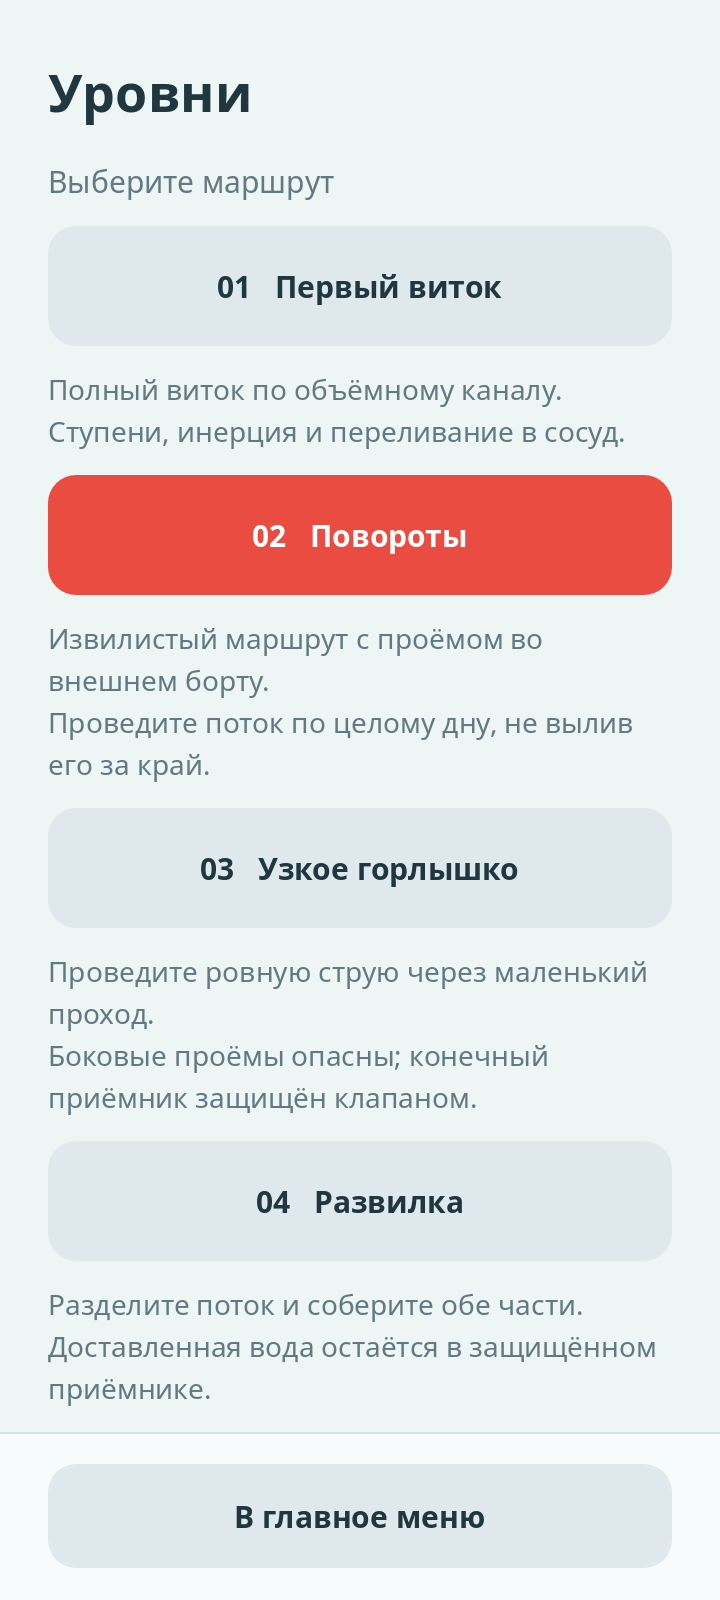
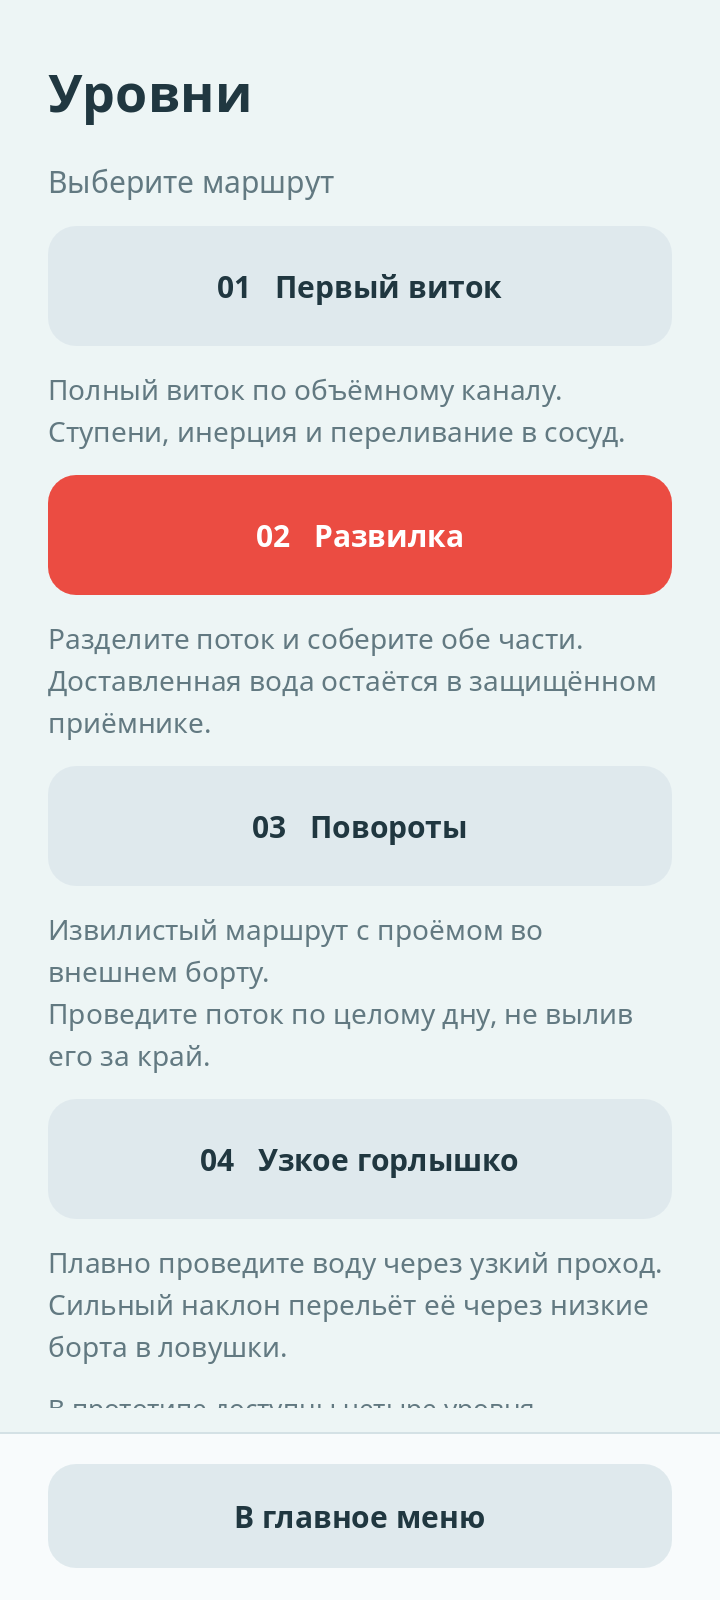
Reorder levels and replace bottleneck outlets with overflow wells
Move Fork second and preserve selected routes through stable source IDs. Add low glass banks, protected passage rails, and spill wells that punish excessive forward tilt. Clip narrow step markings to the actual landings and straighten the bottleneck descents. Author a shallow fixed pitch for rotation on the bottleneck. Validate native physics, sensor input, touch controls, all level transitions and Android packaging.

diff --git a/docs/SPECIFICATION.ru.md b/docs/SPECIFICATION.ru.md
@@ -4,7 +4,7 @@
 
 Игра для Android с управлением жидкостью через наклон мобильного устройства. Игрок меняет направление действия силы тяжести, переливает жидкость по каналам и доставляет её в заданный сосуд. Вода может делиться на потоки, проходить через узкие отверстия, разбрызгиваться, стекать по ступеням, замерзать и испаряться.
 
-**Вода — единственная жидкость десятиуровневого демонстрационного прототипа.** Финальная игра может включать жидкости с различными физическими свойствами и уровни на их смешивание, разделение и взаимодействие. Это часть продуктовой концепции, а не уже реализованная возможность версии 0.12.0.
+**Вода — единственная жидкость десятиуровневого демонстрационного прототипа.** Финальная игра может включать жидкости с различными физическими свойствами и уровни на их смешивание, разделение и взаимодействие. Это часть продуктовой концепции, а не уже реализованная возможность версии 0.12.1.
 
 ## Визуальное направление
 
@@ -18,20 +18,19 @@
 4. После удержания требуемого объёма приёмник подсвечивается; поток продолжает доливаться до 0,5 с без заметного пополнения, но не дольше 2 с. До этого окно результата скрыто. Пауза останавливает воду и задержку.
 5. Игрок может перезапустить уровень и попробовать другой маршрут или темп.
 
-Перезапуск и выход доступны в паузе; язык, чувствительность, выбор способа управления и настройка визуального наклона поля — в настройках главного меню. При сворачивании приложения симуляция останавливается. Альтернативный режим вращает сам трёхмерный уровень вокруг вертикальной оси под неподвижной ортографической камерой с более высоким ракурсом (45° по азимуту, 65° по высоте на первом уровне, 70° на втором). Внутренние участки каналов видны на всём обороте поля; стекло сохраняет видимость воды у бортов. Камера не кренится и не меняет масштаб; жест проецируется на плоскость поля. Гравитация вдоль игрового рельефа направлена вниз экрана. Ориентация сохраняется после отпускания и паузы; повтор сбрасывает её. Этот режим помогает при отсутствии датчика; клавиатура предназначена для разработки.
+Перезапуск и выход доступны в паузе; язык, чувствительность, выбор способа управления и настройка визуального наклона поля — в настройках главного меню. При сворачивании приложения симуляция останавливается. Альтернативный режим вращает сам трёхмерный уровень вокруг вертикальной оси под неподвижной ортографической камерой с более высоким ракурсом (45° по азимуту, 65° по высоте на первом уровне, 73° на втором, 70° на третьем и четвёртом). Внутренние участки каналов видны на всём обороте поля; стекло сохраняет видимость воды у бортов. Камера не кренится и не меняет масштаб; жест проецируется на плоскость поля. Гравитация вдоль игрового рельефа направлена вниз экрана. Ориентация сохраняется после отпускания и паузы; повтор сбрасывает её. Этот режим помогает при отсутствии датчика; клавиатура предназначена для разработки.
 
-## Версия 0.12.0 — четыре уровня
+## Версия 0.12.1 — четыре уровня
 
 **«Первый виток»**: трёхмерный террасный спиральный канал с полным оборотом на 360° и центральным сосудом. Маршрут: вниз, вправо, вверх, влево, снова вниз. Диагональные наклоны помогают провести растянутый поток через повороты. Порог победы — 80% частиц воды в приёмнике непрерывно в течение 0,75 с. Верхних ограничений по времени и штрафов нет. У канала четыре перепада высоты по 0,14. Вода может выплеснуться над конечными бортиками. Если остаток меньше 80% исходного объёма, открывается окно повторной попытки.
 
-**«Повороты»**: извилистый маршрут из четырёх кривых Безье с плавными стенками. Выше нижнего изгиба, на боковой стороне канала, есть проём шириной 0,18 в наружном борту. В 0.11.2 его начало сдвинуто вверх с 1,75 до 1,10, а протяжённость уменьшена с 0,65 до 0,18: спокойный поток легче провести мимо проёма, резкий наклон наружу остаётся опасным. **Дно непрерывно на всём пути**, включая место ошибочного отверстия из 0.11.0; верхний и нижний желоба соединены обычной ступенью. Игрок проводит воду вдоль канала, а не перебрасывает её через пустоту. Сильный наклон наружу выливает воду через боковой проём, плавное управление помогает удержать поток. Край пола и оба вертикальных торца проёма отмечены чёрно-жёлтыми полосами; стрелок, предлагающих вылить туда воду, нет. Цель — те же 80% / 0,75 с.
-
-**«Узкое горлышко»**: ровная струя проходит через отверстие 0,48 × 0,22 под физической перемычкой в перегородке. Перед проходом расположена камера подачи с двумя боковыми сливами наружу: неверное диагональное управление может вылить воду. Дно непрерывно; конечный приёмник защищён обратным клапаном.
-
 **«Развилка»**: общий источник делит воду между короткой и длинной ветвями. Короткая доставляет первую порцию раньше; длинная имеет возвратный участок и требует смены направления. Ветви сходятся перед общим приёмником. Собранная вода остаётся в защищённом сосуде, пока игрок работает с оставшейся частью.
 
+**«Повороты»**: извилистый маршрут из четырёх кривых Безье с плавными стенками. Выше нижнего изгиба, на боковой стороне канала, есть проём шириной 0,18 в наружном борту. В 0.11.2 его начало сдвинуто вверх с 1,75 до 1,10, а протяжённость уменьшена с 0,65 до 0,18: спокойный поток легче провести мимо проёма, резкий наклон наружу остаётся опасным. **Дно непрерывно на всём пути**, включая место ошибочного отверстия из 0.11.0; верхний и нижний желоба соединены обычной ступенью. Игрок проводит воду вдоль канала, а не перебрасывает её через пустоту. Сильный наклон наружу выливает воду через боковой проём, плавное управление помогает удержать поток. Край пола и оба вертикальных торца проёма отмечены чёрно-жёлтыми полосами; стрелок, предлагающих вылить туда воду, нет. Цель — те же 80% / 0,75 с.
 
-Все четыре уровня доступны напрямую в выборе. Меню показывает выбранный номер и название, выбор сохраняется. После победы на первом уровне кнопка «Следующий уровень» начинает второй с закрытым источником и свежим объёмом воды. После второго и третьего также доступен переход дальше; после четвёртого — повтор и главное меню.
+**«Узкое горлышко»**: ровная струя проходит через отверстие 0,48 × 0,22 под физической перемычкой. По обе стороны прохода стоят низкие стеклянные борта: верх 0,70 при отметке дна 0,42. За ними находятся две ловушки без дна; перелившийся объём исчезает и учитывается как потерянный. Боковые выходы из прежней версии закрыты. Узкий канал имеет целое дно и высокие боковые стенки между ловушками. Сильный наклон вперёд накапливает воду выше низких бортов и приводит к потерям; слабый наклон позволяет спокойно пройти. В режиме вращения задан фиксированный пологий наклон 0,2 от полного ввода, поскольку этот режим не позволяет игроку менять его силу. Конечный приёмник защищён обратным клапаном. После отверстия криволинейный канал лежит на одной отметке; перепады перед приёмником прямые.
+
+Все четыре уровня доступны напрямую в выборе. Меню показывает выбранный номер и название, выбор сохраняется по постоянному идентификатору источника; старые индексы мигрируют с сохранением маршрута. Порядок: «Первый виток», «Развилка», «Повороты», «Узкое горлышко». После победы на первом уровне кнопка «Следующий уровень» начинает второй с закрытым источником и свежим объёмом воды. После второго и третьего также доступен переход дальше; после четвёртого — повтор и главное меню.
 
 Входит в реализацию:
 
@@ -44,21 +43,21 @@
 - Подготовка с закрытым резервуаром, вылет и вращение крышки выпускного отверстия по нажатию с открытием физического прохода, игра, пауза, победа и повтор. Перезапуск снова закрывает резервуар.
 - Настройки в стиле Material: отдельные карточки языка, управления, чувствительности и обратной связи, крупные зоны касания, переключатели, сегментный выбор управления, ползунок с числом и сенсорная прокрутка без видимой полосы. Возврат в меню закреплён внизу.
 - Собственные мягкие звуки нажатий (тише событий уровня на 6 дБ), открытия, победы и потери; общий выключатель звука и сохранение настроек.
-- Высокий диагональный ракурс, нейтральные полированные кромки бортов, непрерывная жёлто-чёрная разметка верхнего края, вертикальной грани и нижней площадки ступеней с обратным направлением штриховки после перепада и стрелками спуска и градация цвета дна по высоте. Только открытые грани геометрии; динамические проекционные тени отключены у освещения, стекла, крышки и креплений. Плоскость под уровнем удалена; объём поддерживают постоянный свет и материалы. Направленный свет, поглощение воды по глубине и мягкое контактное затемнение примыканий сохраняют объём без тени под полем.
+- Высокий диагональный ракурс, нейтральные полированные кромки бортов, узкая жёлто-чёрная разметка верхнего края, начала вертикальной грани и нижней площадки ступеней, обрезанная по реальным границам каждого этажа с обратным направлением штриховки после перепада и стрелками спуска и градация цвета дна по высоте. Только открытые грани геометрии; динамические проекционные тени отключены у освещения, стекла, крышки и креплений. Плоскость под уровнем удалена; объём поддерживают постоянный свет и материалы. Направленный свет, поглощение воды по глубине и мягкое контактное затемнение примыканий сохраняют объём без тени под полем.
 - Тестовый APK для Android API 24+, ARM64 / x86_64, без сетевых разрешений.
 
 Геометрия уровня хранится в ресурсе независимо от физики; параметры жидкости — в отдельном `LiquidProfile`. Такая организация позволяет менять свойства, но **не реализует автоматически** совместную физику нескольких материалов. Перед смешиванием / разделением понадобится определить пары взаимодействия, сохранение массы компонентов, растворимость, плотность массы и правила фазовых переходов.
 
-Текущая геометрия — трёхмерный рельеф с вертикальными стенками и ступенями, без нависающих тоннелей. Частицы свободно перемещаются по всем трём осям, падают и могут перелетать бортики. Для льда и пара потребуются отдельные состояния и правила переноса массы; нескольких материалов пока нет.
+Текущая геометрия — трёхмерный рельеф с вертикальными стенками, ступенями и физической перемычкой над горлышком. Частицы свободно перемещаются по всем трём осям, падают и могут перелетать бортики. Для льда и пара потребуются отдельные состояния и правила переноса массы; нескольких материалов пока нет.
 
 ## План демонстрационных уровней
 
 | № | Название | Основная механика | Статус |
 | --- | --- | --- | --- |
 | 1 | Первый виток | Полный виток по спирали, диагональные наклоны, переливание | Реализован в 0.10 |
-| 2 | Повороты | Плавные S-образные изгибы, плавное управление и проём в наружном борту | Уточнён в 0.11.2 |
-| 3 | Узкое горлышко | Низкий проход, ровная подача, опасные боковые сливы | Реализован в 0.12 |
-| 4 | Развилка | Две ветви, обратные движения и безопасный сбор порциями | Реализован в 0.12 |
+| 2 | Развилка | Две ветви, обратные движения и безопасный сбор порциями | Перенесён в 0.12.1 |
+| 3 | Повороты | Плавные S-образные изгибы, плавное управление и проём в наружном борту | Перенесён в 0.12.1 |
+| 4 | Узкое горлышко | Низкий проход, ровная подача, переливные борта и ловушки за ними | Переделан в 0.12.1 |
 | 5 | Ступени | Перепады высоты и перетекание | Запланирован |
 | 6 | Резкий удар | Брызги, инерция и потери при столкновении | Запланирован |
 | 7 | Горячая зона | Испарение уменьшает запас воды | Запланирован |
@@ -85,7 +84,7 @@
 
 Три варианта материалов проверены на одной замороженной физической сцене. Выбран тёплый светлый пол с высотной градацией, нейтральное стекло и более насыщенная синяя вода. Направленный свет и поглощение по глубине возвращают объём воды. Мягкое контактное затемнение привязано к основаниям стен; оно не создаёт движущуюся тень под уровнем. Полированные кромки плавных стен собраны в единую сетку. [Результаты сравнения и воспроизведение](VISUAL_STUDY.ru.md).
 
-## Вода и безопасные приёмники в версии 0.12.0
+## Вода и безопасные приёмники в версии 0.12.1
 
 На всех уровнях стартовый объём составляет 6144 маркера при прежнем размере маркера: на 25% меньше воды. Для тонких струй добавлена локальная парная капиллярная поддержка конечного радиуса, которая сохраняет суммарный импульс. Вязкость и исходный коэффициент поверхностного натяжения воды сохранены.
 

diff --git a/docs/VALIDATION.md b/docs/VALIDATION.md
@@ -1,6 +1,20 @@
 # Проверки прототипа
 
-## Версия 0.12.0 — горлышко, развилка и удержание воды
+## Версия 0.12.1 — порядок сложности и перелив у горлышка
+
+- **195 проверок физики и логики и 95 проверок OpenGL, интерфейса и касаний — 290 проверок, 0 ошибок.** После смены индексов сценарий датчика дополнительно повторён именно на «Поворотах», выбираемых по ресурсу, а не по прежнему номеру.
+- Порядок в меню и после победы: **«Первый виток» → «Развилка» → «Повороты» → «Узкое горлышко»**. Выбор сохраняется по постоянному идентификатору источника. Для всех четырёх прежних индексов проверяется миграция с сохранением того же маршрута; новый запуск восстанавливает выбор по идентификатору.
+- У **«Узкого горлышка»** удалены оба наружных боковых слива. С обеих сторон отверстия **0,48 × 0,22** стоят низкие стеклянные борта: **0,28 над дном** (верх 0,70, дно 0,42). За ними находятся две ловушки шириной **1,04** и длиной **0,94**. Между ловушками сам проход сохраняет целое дно и высокие удерживающие стенки толщиной 0,12; спокойная струя не должна падать с его боков. Тёмные шахты и жёлто-чёрные кромки показывают опасную область. [Исправленный уровень](bottleneck-low-banks.png).
+- Сильный ввод **строго вперёд**, без наклона вбок, переливает больше **20% исходной воды** через низкие борта в ловушки и делает попытку непроходимой. Спокойный ввод 0,2 проходит с потерями **меньше 1%**. В обоих случаях проверяется баланс доставленного, оставшегося и потерянного; перелив учитывается как потеря в ловушках, утечек сквозь целую геометрию нет. Отдельные капли ниже каждого борта удерживаются, выше борта — переливаются и исчезают в шахте.
+- Через игровые касания резервуара и контроллер вращения все четыре уровня завершаются победой. На «Поворотах» датчик, фильтр и игровой цикл доставили **90,951%**, потеряно 70 маркеров. На горлышке доставлено **89,388%**, потеряно **30 из 6144 маркеров (0,488%)**; весь потерянный объём попал в ловушки, утечек сквозь рельеф нет. Пауза, задержка результата, повтор и переходы сохраняют прежние правила.
+- Режим **«Вращение»** управляет направлением постоянной силы, а не её величиной. Для горлышка задан пологий физический наклон **0,2** от полного ввода (около 7° в модели); этот режим проверяется через реальный игровой контроллер с тем же значением. На остальных маршрутах сила вращения сохранена. В режиме **«Наклон»** полный диапазон остался прежним: сильный наклон действительно опасен. Это авторская настройка уровня, а не ослабление силы только в тесте.
+- После горлышка убраны криволинейные границы между этажами: изгиб лежит на одной отметке, перед приёмником прямые ступени. Разметка всех уровней обрезается по реальным верхним и нижним площадкам: **0,12 сверху, 0,10 снизу**, нижняя штриховка развёрнута. На вертикальной грани полоса занимает верхние **0,075**; остальная поверхность спокойного цвета сохраняет объём без широких цветных стен. Стрелки рисуются, только если целиком помещаются на полу. Для горлышка и развилки проверяются центры всех треугольников разметки: высота соответствует настоящему полу. [Исправленная развилка](fork-step-markings.png).
+- Геометрия развилки и «Поворотов», свойства воды, локальная капиллярная поддержка и стартовый объём **6144 маркера** сохранены. Русский и английский каталоги содержат 56 одинаковых непустых ключей; описание горлышка объясняет перелив через низкие борта.
[1 lines of base64/hex data omitted]
+
+Версия 0.12.1 пока не проверялась на физическом Android-устройстве. Автоматические сценарии и изображения относятся к настольному запуску той же игры; они не измеряют FPS и нагрев телефона.
+
+## Архив: версия 0.12.0 — горлышко, развилка и удержание воды
 
 - **183 проверки физики и логики и 96 проверок OpenGL, интерфейса и касаний — 279 проверок, 0 ошибок.**
 - Добавлены **«Узкое горлышко»** и **«Развилка»**, доступны напрямую и через последовательные переходы. В первом случае вода проходит через отверстие **0,48 × 0,22** под настоящей перемычкой; два боковых выхода позволяют расплескать её при неправильном управлении. Во втором поток физически делится между двумя отдельными криволинейными ветвями. Короткая приходит первой, длинная требует возвратного движения. [Горлышко](bottleneck-flow.png) · [Развилка](fork-split.png).
